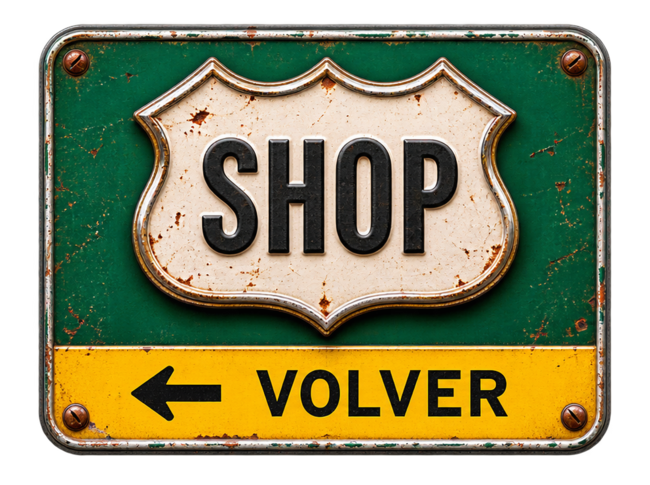
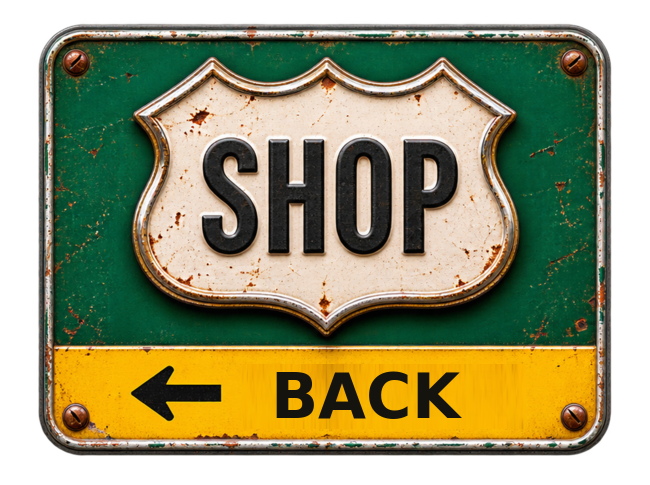
MOds

Changed region(s): [[0.4, 0.7423, 0.8, 0.866]]

diff --git a/index.html b/index.html
@@ -23,9 +23,9 @@
             <img src="assets/music-craft-logo.png" alt="MUSIC CRAFT" width="279" height="101">
           </a>
           <div class="contact-icons" role="group" aria-label="Contacto">
-            <svg role="img" aria-label="Instagram" viewBox="0 0 32 32"><defs><linearGradient id="ig" x2=".8" y2="1" gradientUnits="objectBoundingBox"><stop stop-color="#6246cc"/><stop offset=".48" stop-color="#de2677"/><stop offset="1" stop-color="#ffc45a"/></linearGradient></defs><rect width="32" height="32" rx="8" fill="url(#ig)"/><g fill="none" stroke="white" stroke-width="2"><rect x="6" y="6" width="20" height="20" rx="6"/><circle cx="16" cy="16" r="5"/></g><circle cx="22" cy="10" r="1.4" fill="white"/></svg>
-            <svg role="img" aria-label="WhatsApp" viewBox="0 0 32 32"><rect width="32" height="32" rx="8" fill="#139e55"/><path d="M6 26l1.5-5A10.7 10.7 0 1 1 11 25z" fill="none" stroke="white" stroke-width="1.8"/><path fill="white" d="M11 10q1-1 2 0l1.3 3q.2.5-1.2 2c1 2 2.4 3.4 4.8 4.2l1.5-1.7 3 1.5q.7 1-1 2.8c-3 2-10.2-3.8-11.3-8q-.6-2.2.9-3.8z"/></svg>
-            <svg role="img" aria-label="Correo electrónico" viewBox="0 0 32 32"><rect width="32" height="32" rx="8" fill="#237ac7"/><rect x="5" y="8" width="22" height="16" rx="2" fill="white"/><path d="m6 10 10 8 10-8" stroke="#237ac7" stroke-width="2" fill="none"/></svg>
+            <a href="https://www.instagram.com/music.craft/" aria-label="Instagram"><svg aria-hidden="true" viewBox="0 0 32 32"><defs><linearGradient id="ig" x2=".8" y2="1" gradientUnits="objectBoundingBox"><stop stop-color="#6246cc"/><stop offset=".48" stop-color="#de2677"/><stop offset="1" stop-color="#ffc45a"/></linearGradient></defs><rect width="32" height="32" rx="8" fill="url(#ig)"/><g fill="none" stroke="white" stroke-width="2"><rect x="6" y="6" width="20" height="20" rx="6"/><circle cx="16" cy="16" r="5"/></g><circle cx="22" cy="10" r="1.4" fill="white"/></svg></a>
+            <a href="https://wa.me/5493425455337" aria-label="WhatsApp"><svg aria-hidden="true" viewBox="0 0 32 32"><rect width="32" height="32" rx="8" fill="#139e55"/><path d="M6 26l1.5-5A10.7 10.7 0 1 1 11 25z" fill="none" stroke="white" stroke-width="1.8"/><path fill="white" d="M11 10q1-1 2 0l1.3 3q.2.5-1.2 2c1 2 2.4 3.4 4.8 4.2l1.5-1.7 3 1.5q.7 1-1 2.8c-3 2-10.2-3.8-11.3-8q-.6-2.2.9-3.8z"/></svg></a>
+            <a href="mailto:mc.guitarshop@gmail.com" aria-label="Correo electrónico"><svg aria-hidden="true" viewBox="0 0 32 32"><rect width="32" height="32" rx="8" fill="#237ac7"/><rect x="5" y="8" width="22" height="16" rx="2" fill="white"/><path d="m6 10 10 8 10-8" stroke="#237ac7" stroke-width="2" fill="none"/></svg></a>
           </div>
         </header>
         <nav class="road-signs" aria-label="Secciones">
@@ -36,10 +36,15 @@
 
       <section class="screen shop-screen" id="shopScreen" aria-label="Sección SHOP" aria-hidden="true" inert>
         <header class="shop-header">
-          <div class="section-sign"><img id="sectionTitle" src="assets/badge-shop.png" alt="SHOP"><a class="return-strip" href="#home" aria-label="Volver al inicio"></a></div>
+          <div class="section-sign"><img id="sectionTitle" src="assets/badge-shop.png" alt="SHOP"><a class="return-strip" href="#home" aria-label="Back to home"></a></div>
           <a class="shop-brand" href="#home" aria-label="MUSIC CRAFT, volver al inicio">
             <img src="assets/music-craft-logo.png" alt="MUSIC CRAFT" width="279" height="101">
           </a>
+          <div class="contact-icons" role="group" aria-label="Contacto">
+            <a href="https://www.instagram.com/music.craft/" aria-label="Instagram"><svg aria-hidden="true" viewBox="0 0 32 32"><defs><linearGradient id="ig-section" x2=".8" y2="1" gradientUnits="objectBoundingBox"><stop stop-color="#6246cc"/><stop offset=".48" stop-color="#de2677"/><stop offset="1" stop-color="#ffc45a"/></linearGradient></defs><rect width="32" height="32" rx="8" fill="url(#ig-section)"/><g fill="none" stroke="white" stroke-width="2"><rect x="6" y="6" width="20" height="20" rx="6"/><circle cx="16" cy="16" r="5"/></g><circle cx="22" cy="10" r="1.4" fill="white"/></svg></a>
+            <a href="https://wa.me/5493425455337" aria-label="WhatsApp"><svg aria-hidden="true" viewBox="0 0 32 32"><rect width="32" height="32" rx="8" fill="#139e55"/><path d="M6 26l1.5-5A10.7 10.7 0 1 1 11 25z" fill="none" stroke="white" stroke-width="1.8"/><path fill="white" d="M11 10q1-1 2 0l1.3 3q.2.5-1.2 2c1 2 2.4 3.4 4.8 4.2l1.5-1.7 3 1.5q.7 1-1 2.8c-3 2-10.2-3.8-11.3-8q-.6-2.2.9-3.8z"/></svg></a>
+            <a href="mailto:mc.guitarshop@gmail.com" aria-label="Correo electrónico"><svg aria-hidden="true" viewBox="0 0 32 32"><rect width="32" height="32" rx="8" fill="#237ac7"/><rect x="5" y="8" width="22" height="16" rx="2" fill="white"/><path d="m6 10 10 8 10-8" stroke="#237ac7" stroke-width="2" fill="none"/></svg></a>
+          </div>
         
         </header>
       </section>

diff --git a/styles.css b/styles.css
@@ -145,3 +145,24 @@ a.road-sign:hover img { filter: brightness(1.08); }
   .contact-icons svg { display: block; width: 26px; height: 26px; }
   .road-signs { left: 50%; right: auto; bottom: auto; top: 50%; transform: translate(-50%, -50%); gap: 8px; }
 }
+.contact-icons { display:flex; align-items:center; gap:7px; }
+.contact-icons a { display:grid; place-items:center; }
+.contact-icons svg { width:26px; height:26px; display:block; }
+.home-header { justify-content:flex-start; gap:10px; }
+.is-shop .section-sign { left:auto; right:clamp(12px,2vw,34px); }
+.is-shop .shop-header { height:auto; align-items:center; gap:10px; padding:12px clamp(12px,2vw,34px); }
+.is-shop .shop-brand { position:static; transform:none; width:clamp(310px,40vw,460px); }
+.is-workshop .shop-header .contact-icons { position:absolute; left:calc(50% + clamp(77.5px,10vw,115px) + 10px); }
+@media (min-width:601px) and (max-width:900px) {
+  .is-workshop .shop-header .contact-icons { left:50%; top:100%; transform:translateX(-50%); }
+}
+@media (max-width:600px) {
+  .home-header { gap:6px; }
+  .shop-header .contact-icons { display:none; }
+  .is-shop .shop-brand { width:min(330px,100%); }
+  .is-shop .shop-header { padding:8px 12px; }
+  .is-shop .section-sign { top:calc(100% + 4px); }
+}
+@media (min-width:510px) and (max-width:600px) {
+  .is-shop .section-sign { top:12px; }
+}
